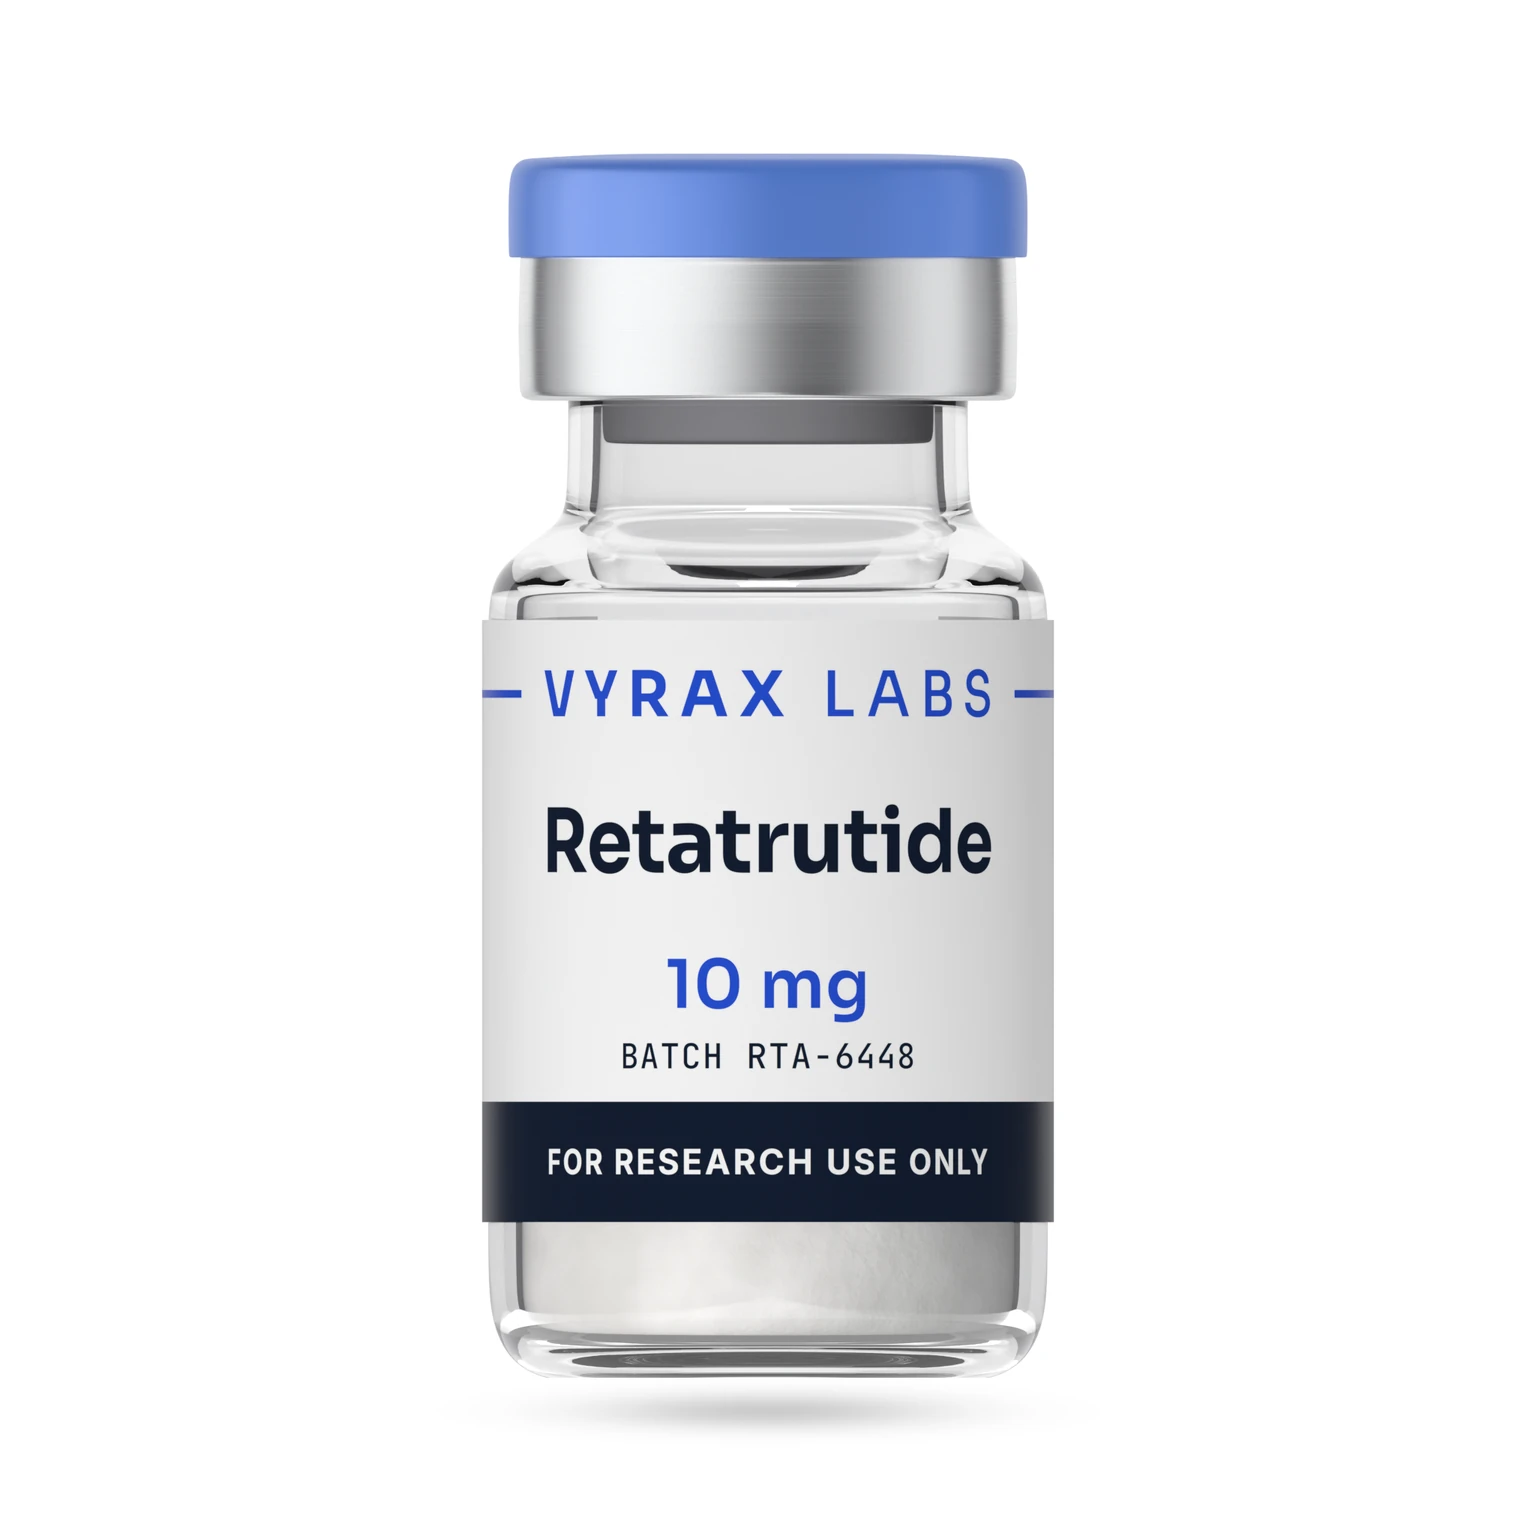
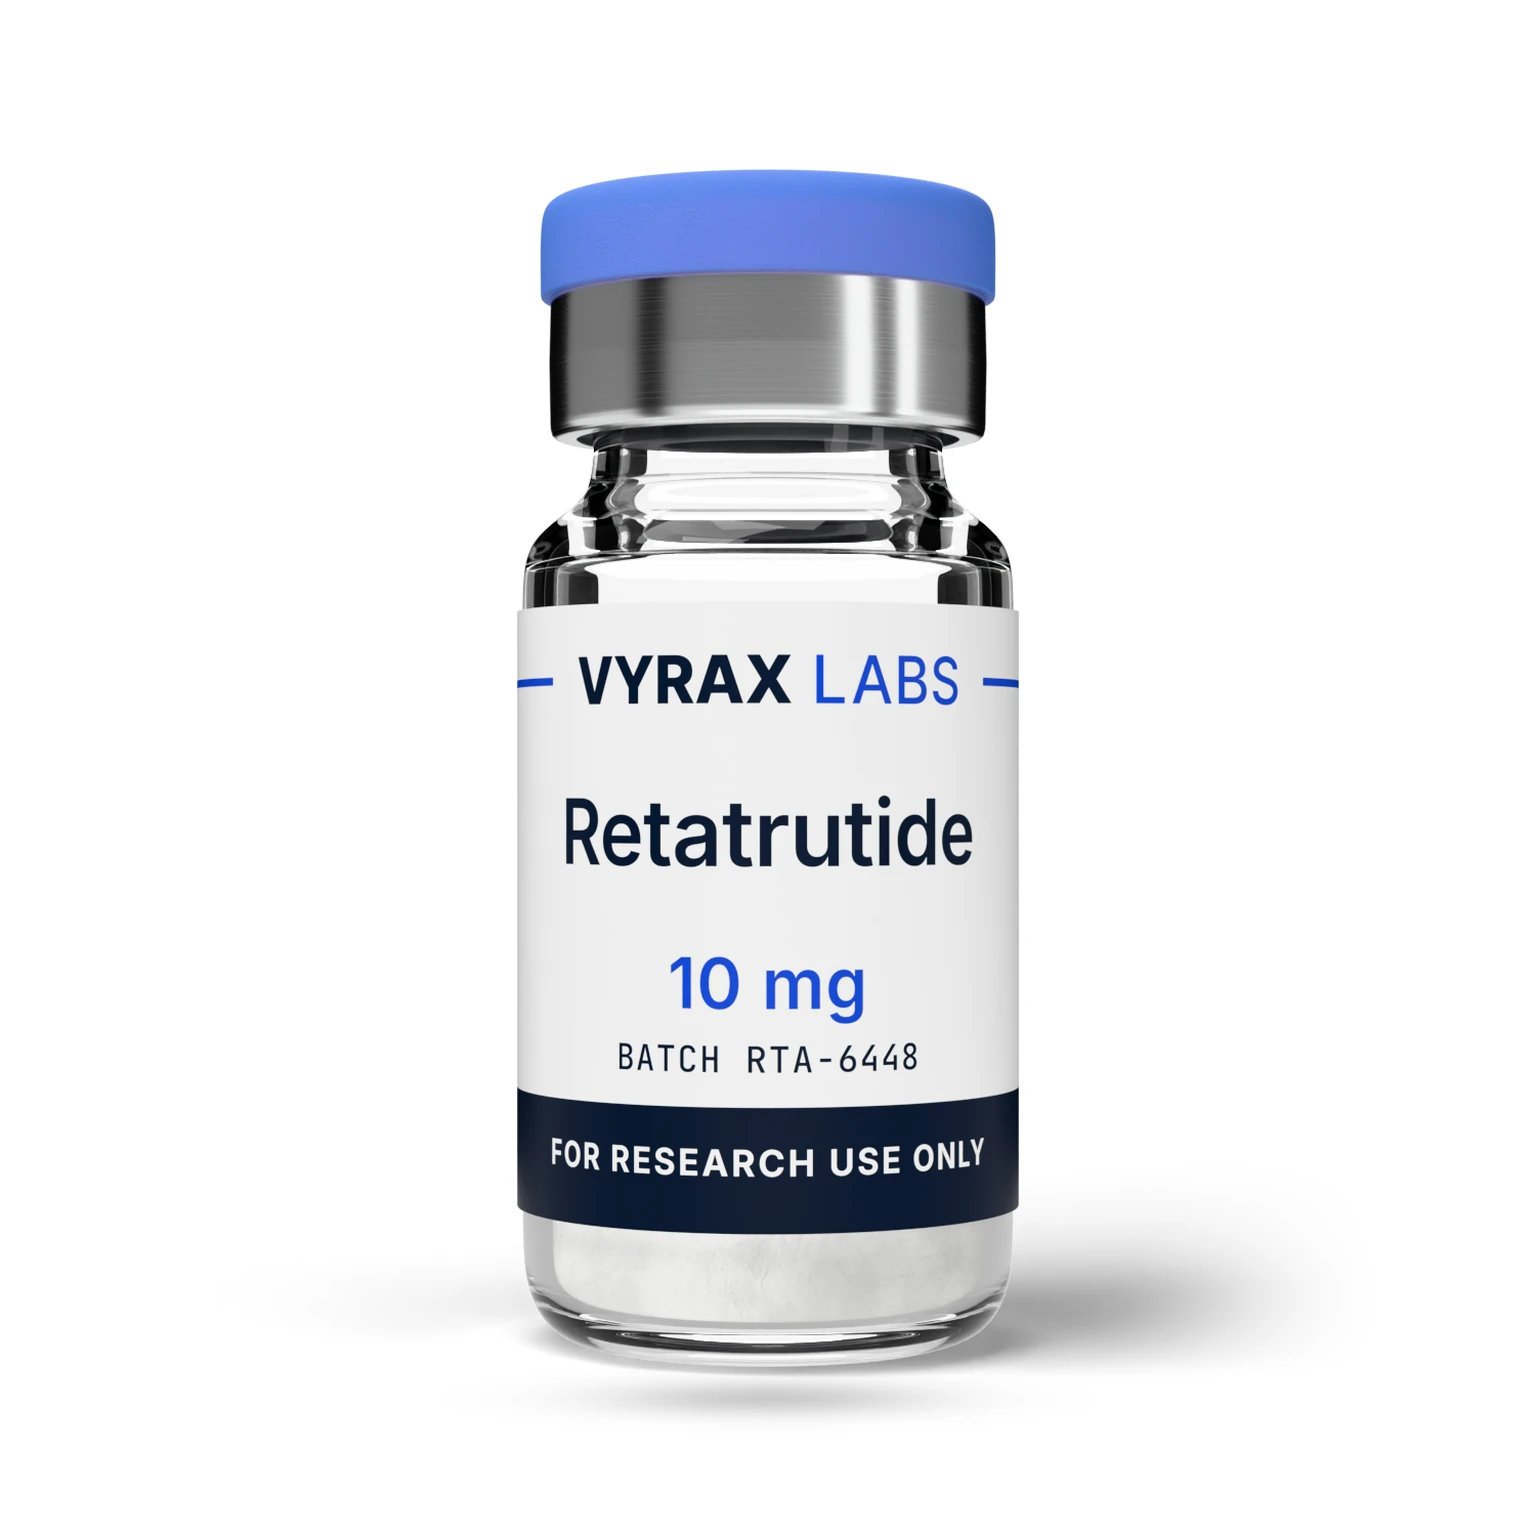
Product page gallery: Retatrutide 10mg front, QR side and storage side views
New vial master renders for Reta 10mg only, for review before the full re-render. Extra views are files named <slug>__<strength>__<view>.webp; productImage() still returns only the front (cards, basket, og:image), productGallery() adds the turned views. Pages without extra views keep the single image.

Changed region(s): [[0.3125, 0.0938, 0.8125, 0.9375]]

diff --git a/src/routes/product.$slug.tsx b/src/routes/product.$slug.tsx
@@ -26,6 +26,7 @@ import {
 import {
   resolveProductSlug,
   productImage,
+  productGallery,
   productPath,
   gbp,
   addCart,
@@ -47,6 +48,7 @@ import { latestCoa, testingPublished } from "@/data/coa";
 import { site, abs } from "@/data/site";
 import { faqJsonLd, type QA } from "@/data/faq";
 import { supabase } from "@/integrations/supabase/client";
+import { ProductGallery } from "@/components/ProductGallery";
 
 export const Route = createFileRoute("/product/$slug")({
   loader: ({ params }) => {
@@ -92,7 +94,7 @@ export const Route = createFileRoute("/product/$slug")({
       description: c.summary,
       sku: `VYX-${c.slug.toUpperCase()}-${s.label.toUpperCase().replace(/[^A-Z0-9]/g, "")}`,
       ...(ch.cas ? { mpn: ch.cas } : {}),
-      image: [imgUrl],
+      image: productGallery(c.slug, s.label).map((g) => abs(g.src)),
       brand: { "@type": "Brand", name: site.name },
       category: cat?.name,
       url,
@@ -238,6 +240,7 @@ function ProductPage() {
   const [qty, setQty] = useState(1);
   const cat = getCategory(c.category);
   const img = productImage(c.slug, s.label);
+  const gallery = productGallery(c.slug, s.label);
   const coa = latestCoa(c.slug, s.label);
   const ch = chem[c.slug] ?? {};
   const cites = citations[c.slug] ?? [];
@@ -294,27 +297,42 @@ function ProductPage() {
         />
         <div className="grid lg:grid-cols-2 gap-8 lg:gap-14">
           <div>
-            <div className="relative bg-surface aspect-[4/3] sm:aspect-square rounded-2xl overflow-hidden">
-              <img
-                src={img.src}
-                srcSet={img.srcSet}
-                sizes="(min-width: 1024px) 600px, 100vw"
-                alt={`${c.name} ${s.label} research vial, Vyrax Labs`}
-                width={1024}
-                height={1024}
-                className="w-full h-full object-contain sm:object-cover"
+            {gallery.length > 1 ? (
+              <ProductGallery
+                images={gallery}
+                name={`${c.name} ${s.label}`}
+                badges={
+                  (b2g1 || coa) && (
+                    <>
+                      {b2g1 && <span className="badge-promo">Buy 2 get 1 free</span>}
+                      {coa && <span className="badge-verify">{coa.purity}% HPLC</span>}
+                    </>
+                  )
+                }
               />
-              {!img.isRender && (
-                <span className="absolute inset-x-10 top-[46%] text-center font-heading font-semibold text-ink text-xl leading-tight pointer-events-none">
-                  {c.name}
-                  <span className="block font-mono text-sm text-primary mt-1">{s.label}</span>
+            ) : (
+              <div className="relative bg-surface aspect-[4/3] sm:aspect-square rounded-2xl overflow-hidden">
+                <img
+                  src={img.src}
+                  srcSet={img.srcSet}
+                  sizes="(min-width: 1024px) 600px, 100vw"
+                  alt={`${c.name} ${s.label} research vial, Vyrax Labs`}
+                  width={1024}
+                  height={1024}
+                  className="w-full h-full object-contain sm:object-cover"
+                />
+                {!img.isRender && (
+                  <span className="absolute inset-x-10 top-[46%] text-center font-heading font-semibold text-ink text-xl leading-tight pointer-events-none">
+                    {c.name}
+                    <span className="block font-mono text-sm text-primary mt-1">{s.label}</span>
+                  </span>
+                )}
+                <span className="absolute top-4 left-4 flex gap-2">
+                  {b2g1 && <span className="badge-promo">Buy 2 get 1 free</span>}
+                  {coa && <span className="badge-verify">{coa.purity}% HPLC</span>}
                 </span>
-              )}
-              <span className="absolute top-4 left-4 flex gap-2">
-                {b2g1 && <span className="badge-promo">Buy 2 get 1 free</span>}
-                {coa && <span className="badge-verify">{coa.purity}% HPLC</span>}
-              </span>
-            </div>
+              </div>
+            )}
             <div className="hidden sm:grid grid-cols-3 gap-3 mt-4 text-xs text-center">
               {(
                 [

diff --git a/src/components/ProductGallery.tsx b/src/components/ProductGallery.tsx
@@ -1,0 +1,117 @@
+import { useEffect, useState, type ReactNode } from "react";
+import {
+  Carousel,
+  CarouselContent,
+  CarouselItem,
+  CarouselNext,
+  CarouselPrevious,
+  type CarouselApi,
+} from "@/components/ui/carousel";
+import { cn } from "@/lib/utils";
+import type { Img } from "@/lib/catalog";
+
+// What each render shows (file suffix __<view>), for alt text and the thumbnail buttons.
+const VIEW_TEXT: Record<string, string> = {
+  front: "front of the vial",
+  qr: "side panel with the batch QR code",
+  storage: "side panel with storage and expiry",
+};
+const viewText = (im: Img) => VIEW_TEXT[im.view ?? "front"] ?? "vial";
+
+/**
+ * Product page gallery for strengths with more than one render of the same vial (front + turned views).
+ * Swipe or drag on the main photo, arrows from sm up, thumbnails underneath. The first slide is the
+ * front render, the same image as the product cards, og:image and basket.
+ */
+export function ProductGallery({
+  images,
+  name,
+  badges,
+}: {
+  images: Img[];
+  name: string;
+  badges?: ReactNode;
+}) {
+  const [api, setApi] = useState<CarouselApi>();
+  const [index, setIndex] = useState(0);
+  useEffect(() => {
+    if (!api) return;
+    const sync = () => setIndex(api.selectedScrollSnap());
+    sync();
+    api.on("select", sync);
+    api.on("reInit", sync);
+    return () => {
+      api.off("select", sync);
+      api.off("reInit", sync);
+    };
+  }, [api]);
+
+  return (
+    <div>
+      <div className="relative">
+        <Carousel
+          setApi={setApi}
+          aria-label={`${name} images`}
+          className="bg-surface rounded-2xl overflow-hidden"
+        >
+          <CarouselContent className="ml-0">
+            {images.map((im, i) => (
+              <CarouselItem
+                key={im.src}
+                className="pl-0"
+                aria-label={`${i + 1} of ${images.length}: ${viewText(im)}`}
+              >
+                <div className="aspect-[4/3] sm:aspect-square">
+                  <img
+                    src={im.src}
+                    srcSet={im.srcSet}
+                    sizes="(min-width: 1024px) 600px, 100vw"
+                    alt={
+                      i === 0
+                        ? `${name} research vial, Vyrax Labs`
+                        : `${name} vial, ${viewText(im)}`
+                    }
+                    width={1024}
+                    height={1024}
+                    fetchPriority={i === 0 ? "auto" : "low"}
+                    draggable={false}
+                    className="w-full h-full object-contain sm:object-cover select-none"
+                  />
+                </div>
+              </CarouselItem>
+            ))}
+          </CarouselContent>
+          <CarouselPrevious className="left-3 size-10 bg-background/90 hidden sm:inline-flex" />
+          <CarouselNext className="right-3 size-10 bg-background/90 hidden sm:inline-flex" />
+        </Carousel>
+        {badges && (
+          <span className="absolute top-4 left-4 flex gap-2 pointer-events-none">{badges}</span>
+        )}
+      </div>
+      <div className="flex gap-2.5 mt-3">
+        {images.map((im, i) => (
+          <button
+            key={im.src}
+            type="button"
+            onClick={() => api?.scrollTo(i)}
+            aria-label={`Show the ${viewText(im)}`}
+            aria-current={i === index ? "true" : undefined}
+            className={cn(
+              "size-16 sm:size-20 rounded-xl overflow-hidden border-2 bg-surface transition-colors",
+              i === index ? "border-primary" : "border-border hover:border-primary/40",
+            )}
+          >
+            <img
+              src={im.small ?? im.src}
+              alt=""
+              width={640}
+              height={640}
+              loading="lazy"
+              className="w-full h-full object-cover scale-[1.18]"
+            />
+          </button>
+        ))}
+      </div>
+    </div>
+  );
+}

diff --git a/src/lib/catalog.ts b/src/lib/catalog.ts
@@ -60,6 +60,9 @@ export const allProductSlugs = () =>
 // sm/<same file> (640px) for cards and thumbnails. Strength key = lower case, non-alphanumerics to '-' ("5+5mg" -> "5-5mg").
 // The label on each render prints its strength, so a strength with no render of its own falls back to the
 // plain generic vial rather than a render showing a different mg.
+// Extra product-page views of the same vial: <product-slug>__<strength>__<view>.webp, e.g. __qr (turned to the
+// batch QR side panel) and __storage (turned to storage + expiry). productImage() only ever returns the front
+// (cards, basket, og:image); productGallery() returns the front first, then the views in VIEW_ORDER.
 const renderLg = import.meta.glob("../assets/products/*.webp", {
   eager: true,
   import: "default",
@@ -68,16 +71,21 @@ const renderSm = import.meta.glob("../assets/products/sm/*.webp", {
   eager: true,
   import: "default",
 }) as Record<string, string>;
-const renders: Record<
-  string,
-  { strength: string; src: string; small?: string | undefined; srcSet: string }[]
-> = {};
+type Render = {
+  strength: string;
+  view: string;
+  src: string;
+  small?: string | undefined;
+  srcSet: string;
+};
+const renders: Record<string, Render[]> = {};
 for (const [path, src] of Object.entries(renderLg)) {
   const file = path.slice(path.lastIndexOf("/") + 1);
-  const [slug = "", key = ""] = file.replace(/\.webp$/, "").split("__");
+  const [slug = "", key = "", view = "front"] = file.replace(/\.webp$/, "").split("__");
   const small = renderSm[`../assets/products/sm/${file}`];
   (renders[slug] ??= []).push({
     strength: key,
+    view,
     src,
     small,
     srcSet: small ? `${small} 640w, ${src} 1536w` : `${src} 1536w`,
@@ -88,14 +96,37 @@ export type Img = {
   srcSet?: string | undefined;
   small?: string | undefined;
   isRender: boolean;
+  view?: string | undefined;
 };
-export function productImage(slug: string, strength?: string): Img {
+const VIEW_ORDER = ["front", "qr", "storage"];
+const viewRank = (view: string) => {
+  const i = VIEW_ORDER.indexOf(view);
+  return i < 0 ? VIEW_ORDER.length : i;
+};
+const rendersOf = (slug: string, strength?: string) => {
   const c = getCompound(slug);
   const want = strengthKey(strength ?? c?.strengths[0]?.label ?? "");
-  const hit = (renders[slug] ?? []).find((r) => r.strength === want);
-  return hit
-    ? { src: hit.src, srcSet: hit.srcSet, small: hit.small, isRender: true }
-    : { src: vial, isRender: false };
+  return (renders[slug] ?? []).filter((r) => r.strength === want);
+};
+const toImg = (r: Render): Img => ({
+  src: r.src,
+  srcSet: r.srcSet,
+  small: r.small,
+  isRender: true,
+  view: r.view,
+});
+export function productImage(slug: string, strength?: string): Img {
+  const hit = rendersOf(slug, strength).find((r) => r.view === "front");
+  return hit ? toImg(hit) : { src: vial, isRender: false };
+}
+/** Every image of one strength for the product page gallery: the front first, then the turned views. */
+export function productGallery(slug: string, strength?: string): Img[] {
+  const front = productImage(slug, strength);
+  if (!front.isRender) return [front];
+  const views = rendersOf(slug, strength)
+    .filter((r) => r.view !== "front")
+    .sort((a, b) => viewRank(a.view) - viewRank(b.view));
+  return [front, ...views.map(toImg)];
 }
 
 // ---------------------------------------------------------------- Pricing helpers
